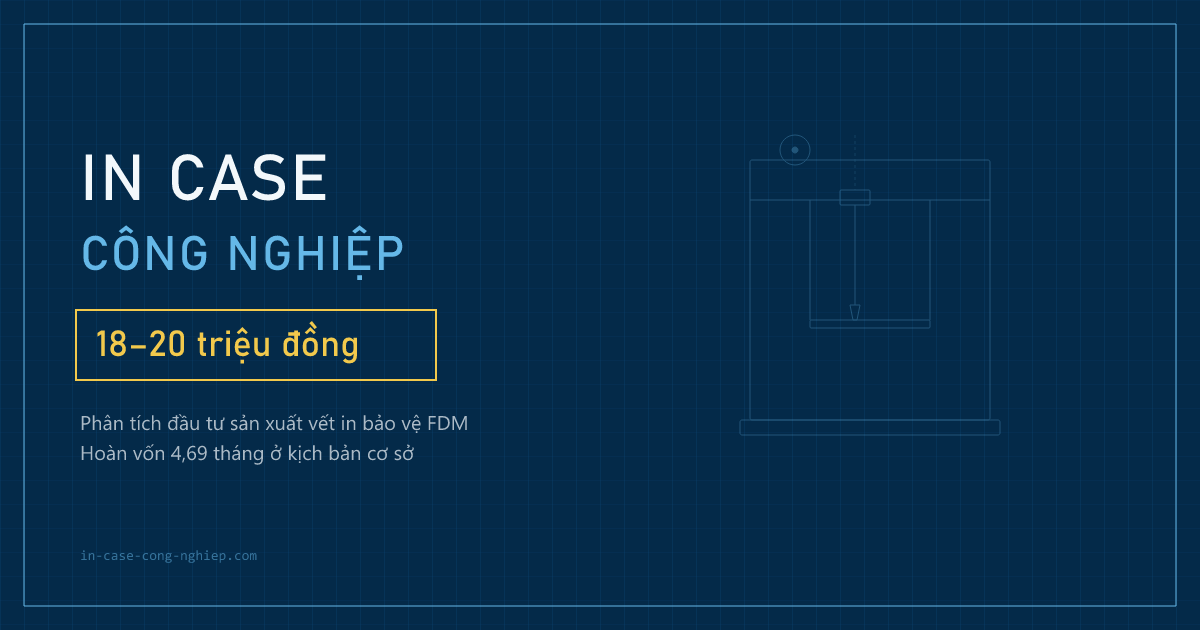
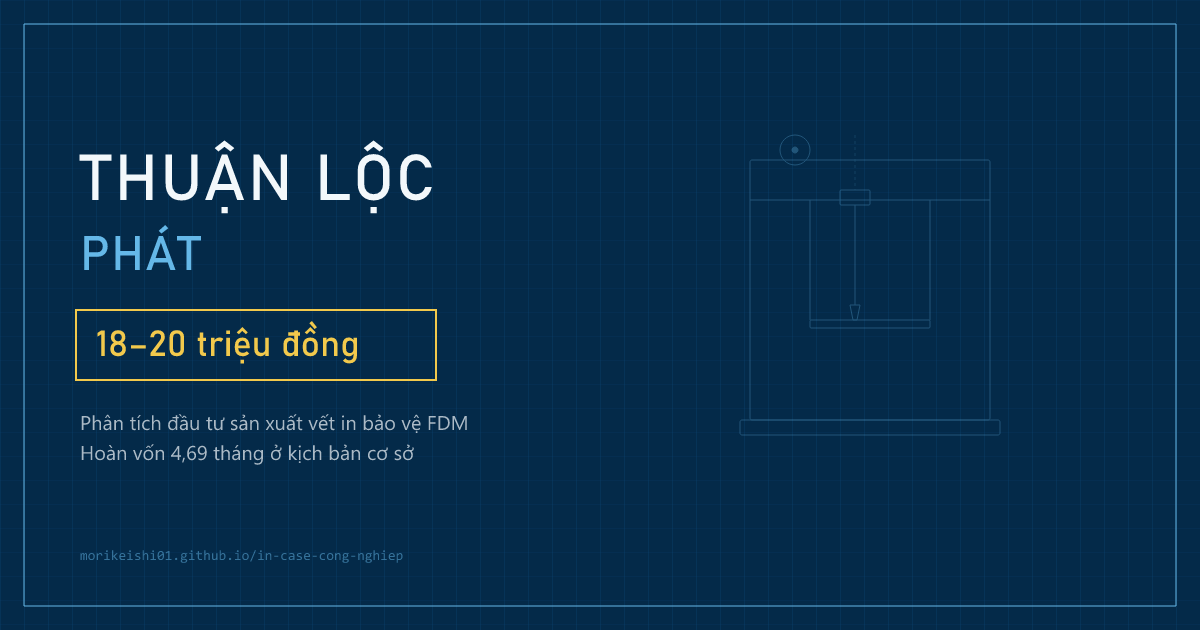
feat: rebrand website as Thuan Loc Phat

diff --git a/index.html b/index.html
@@ -3,22 +3,22 @@
   <head>
     <meta charset="UTF-8" />
     <meta name="viewport" content="width=device-width, initial-scale=1.0" />
-    <meta name="description" content="IN CASE C&Ocirc;NG NGHI&#7878;P &mdash; Ph&acirc;n t&iacute;ch &#273;&#7847;u t&#432; s&#7843;n xu&#7845;t v&#7871;t in b&#7843;o v&#7879; c&ocirc;ng nghi&#7879;p FDM. V&#7889;n kh&#7903;i &#273;&#7847;u d&#432;&#7899;i 20 tri&#7879;u, ho&agrave;n v&#7889;n 4,69 th&aacute;ng." />
-    <meta property="og:title" content="IN CASE C&Ocirc;NG NGHI&#7878;P &mdash; Ph&acirc;n t&iacute;ch &#273;&#7847;u t&#432;" />
+    <meta name="description" content="THU&#7852;N L&#7896;C PH&Aacute;T &mdash; Ph&acirc;n t&iacute;ch &#273;&#7847;u t&#432; s&#7843;n xu&#7845;t v&#7871;t in b&#7843;o v&#7879; c&ocirc;ng nghi&#7879;p FDM. V&#7889;n kh&#7903;i &#273;&#7847;u d&#432;&#7899;i 20 tri&#7879;u, ho&agrave;n v&#7889;n 4,69 th&aacute;ng." />
+    <meta property="og:title" content="THU&#7852;N L&#7896;C PH&Aacute;T &mdash; Ph&acirc;n t&iacute;ch &#273;&#7847;u t&#432;" />
     <meta property="og:description" content="V&#7871;t in b&#7843;o v&#7879; c&ocirc;ng nghi&#7879;p FDM. V&#7889;n kh&#7903;i &#273;&#7847;u d&#432;&#7899;i 20 tri&#7879;u, ho&agrave;n v&#7889;n 4,69 th&aacute;ng." />
     <meta property="og:type" content="website" />
     <meta property="og:image" content="%BASE_URL%og-image.png" />
     <meta property="og:image:width" content="1200" />
     <meta property="og:image:height" content="630" />
     <meta property="og:image:type" content="image/png" />
-    <meta property="og:image:alt" content="IN CASE C&Ocirc;NG NGHI&#7878;P &mdash; Ph&acirc;n t&iacute;ch &#273;&#7847;u t&#432;" />
+    <meta property="og:image:alt" content="THU&#7852;N L&#7896;C PH&Aacute;T &mdash; Ph&acirc;n t&iacute;ch &#273;&#7847;u t&#432;" />
     <!-- Twitter / X large card -->
     <meta name="twitter:card" content="summary_large_image" />
-    <meta name="twitter:title" content="IN CASE C&Ocirc;NG NGHI&#7878;P &mdash; Ph&acirc;n t&iacute;ch &#273;&#7847;u t&#432;" />
+    <meta name="twitter:title" content="THU&#7852;N L&#7896;C PH&Aacute;T &mdash; Ph&acirc;n t&iacute;ch &#273;&#7847;u t&#432;" />
     <meta name="twitter:description" content="V&#7871;t in b&#7843;o v&#7879; c&ocirc;ng nghi&#7879;p FDM. V&#7889;n kh&#7903;i &#273;&#7847;u d&#432;&#7899;i 20 tri&#7879;u, ho&agrave;n v&#7889;n 4,69 th&aacute;ng." />
     <meta name="twitter:image" content="%BASE_URL%og-image.png" />
     <!-- Deferred: canonical URL and organization JSON-LD intentionally omitted until real production domain and legal details are confirmed -->
-    <title>IN CASE C&Ocirc;NG NGHI&#7878;P &mdash; Ph&acirc;n t&iacute;ch &#273;&#7847;u t&#432;</title>
+    <title>THU&#7852;N L&#7896;C PH&Aacute;T &mdash; Ph&acirc;n t&iacute;ch &#273;&#7847;u t&#432;</title>
     <link rel="icon" type="image/svg+xml" href="%BASE_URL%favicon.svg" />
   </head>
   <body>

diff --git a/src/sections/unit-economics.ts b/src/sections/unit-economics.ts
@@ -12,7 +12,7 @@ export function renderUnitEconomics(): HTMLElement {
       </div>
       <div class="table-wrapper">
         <table>
-          <caption class="visually-hidden">B&#7843;ng kinh t&#7871; &#273;&#417;n v&#7883;: gi&aacute; filament, t&#7927; l&#7879; hao h&#7909;t, gi&aacute; th&agrave;nh hi&#7879;u l&#7921;c</caption>
+          <caption class="visually-hidden">B&#7843;ng kinh t&#7871; &#273;&#417;n v&#7883;: gi&aacute; filament, t&#7927; l&#7879; hao h&#7909;t, chi ph&iacute; th&#7921;c t&#7871; sau hao h&#7909;t</caption>
           <thead>
             <tr>
               <th>Th&ocirc;ng s&#7889;</th>
@@ -32,7 +32,7 @@ export function renderUnitEconomics(): HTMLElement {
               <td>In h&#7887;ng, test, calibration</td>
             </tr>
             <tr>
-              <td>Gi&aacute; th&agrave;nh hi&#7879;u l&#7921;c/gram</td>
+              <td>Chi ph&iacute; th&#7921;c t&#7871; sau hao h&#7909;t/gram</td>
               <td class="data">${formatVND(assumptions.effectiveCostPerGram)}/g</td>
               <td class="dim-label">K&#7871;t qu&#7843; m&ocirc; h&igrave;nh</td>
             </tr>
@@ -42,7 +42,7 @@ export function renderUnitEconomics(): HTMLElement {
               <td>Chi ph&iacute; &#273;i&#7879;n + hao m&ograve;n m&aacute;y</td>
             </tr>
             <tr>
-              <td>Gi&#7901; l&#7883;ch/tu&#7847;n</td>
+              <td>Gi&#7901; l&#7883;ch/th&aacute;ng</td>
               <td class="data">${formatNumber(assumptions.maxCalendarHoursPerMonth)} gi&#7901;/th&aacute;ng</td>
               <td class="dim-label">24h &times; 30 ng&agrave;y = t&#7889;i &#273;a</td>
             </tr>

diff --git a/src/sections/product-examples.ts b/src/sections/product-examples.ts
@@ -26,7 +26,7 @@ export function renderProductExamples(): HTMLElement {
       <div class="section-header">
         <h2><span class="section-index">[04]</span> V&iacute; d&#7921; s&#7843;n ph&#7849;m</h2>
       </div>
-      <p>Gi&aacute; th&agrave;nh &ldquo;fully loaded&rdquo; bao g&#7891;m v&#7853;t li&#7879;u, m&aacute;y, nh&acirc;n c&ocirc;ng l&#7853;p t&#7921;, gia c&ocirc;ng h&#7853;u k&#7929; v&agrave; &#273;&oacute;ng g&oacute;i.</p>
+      <p>Gi&aacute; th&agrave;nh &ldquo;fully loaded&rdquo; bao g&#7891;m v&#7853;t li&#7879;u, m&aacute;y, nh&acirc;n c&ocirc;ng l&#7853;p r&#225;p, gia c&ocirc;ng h&#7853;u k&#253; v&agrave; &#273;&oacute;ng g&oacute;i.</p>
       <div class="table-wrapper">
         <table>
           <caption class="visually-hidden">B&#7843;ng v&iacute; d&#7921; s&#7843;n ph&#7849;m: gi&aacute; th&agrave;nh, gi&aacute; b&aacute;n v&agrave; l&#7907;i nhu&#7853;n bi&ecirc;n</caption>

diff --git a/src/sections/investment-summary.ts b/src/sections/investment-summary.ts
@@ -24,7 +24,7 @@ export function renderInvestmentSummary(): HTMLElement {
           <tbody>
             <tr>
               <td>M&aacute;y in FDM</td>
-              <td>M&aacute;y in 3D c&#7845;p nh&#7853;p, kh&#7889;i l&#432;&#7907;ng in 220 &times; 220 &times; 250 mm</td>
+              <td>M&aacute;y in 3D ph&#7893; th&ocirc;ng, kh&#7889;i l&#432;&#7907;ng in 220 &times; 220 &times; 250 mm</td>
               <td class="data">${formatVND(assumptions.printerCost)}</td>
             </tr>
             <tr>

diff --git a/src/main.ts b/src/main.ts
@@ -44,7 +44,7 @@ const footer = document.createElement('footer');
 footer.className = 'site-footer';
 footer.innerHTML = `
   <div class="container">
-    <p>IN CASE C&Ocirc;NG NGHI&#7878;P &mdash; N&#7873;n t&#7843;ng tr&igrave;nh b&agrave;y nh&agrave; &#273;&#7847;u t&#432;</p>
+    <p>THU&#7852;N L&#7896;C PH&Aacute;T &mdash; N&#7873;n t&#7843;ng tr&igrave;nh b&agrave;y nh&agrave; &#273;&#7847;u t&#432;</p>
   </div>
 `;
 main.appendChild(footer);

diff --git a/src/sections/hero.ts b/src/sections/hero.ts
@@ -10,7 +10,7 @@ export function renderHero(): HTMLElement {
       <div class="hero-layout">
         <div class="hero-text">
           <p class="dim-label">[01] Giới thiệu</p>
-          <h1>IN CASE C&Ocirc;NG NGHI&#7878;P</h1>
+          <h1>THU&#7852;N L&#7896;C PH&Aacute;T</h1>
           <p class="hero-subtitle">
             V&#7871;t in b&#7843;o v&#7879; c&ocirc;ng nghi&#7879;p &mdash; FDM 3D Printing
           </p>

diff --git a/src/sections/business-hypotheses.ts b/src/sections/business-hypotheses.ts
@@ -17,7 +17,7 @@ export function renderBusinessHypotheses(): HTMLElement {
   section.innerHTML = `
     <div class="container section-inner">
       <div class="section-header">
-        <h2><span class="section-index">[07]</span> Gi&#7843; thu&#7871;t kinh doanh</h2>
+        <h2><span class="section-index">[07]</span> Gi&#7843; thuy&#7879;t kinh doanh</h2>
       </div>
       <ul class="hypothesis-list">
         <li>

diff --git a/src/lib/finance.ts b/src/lib/finance.ts
@@ -1,5 +1,5 @@
 /**
- * Pure finance calculation functions for IN CASE CÔNG NGHIỆP.
+ * Pure finance calculation functions for THUẬN LỘC PHÁT.
  * All monetary values in VND. No DOM, no side effects.
  *
  * Validation contract:

diff --git a/README.md b/README.md
@@ -1,4 +1,4 @@
-# IN CASE CONG NGHIEP
+# THUẬN LỘC PHÁT
 
 Phan tich dau tu san xuat case bao ve cong nghiep bang in 3D FDM.
 
